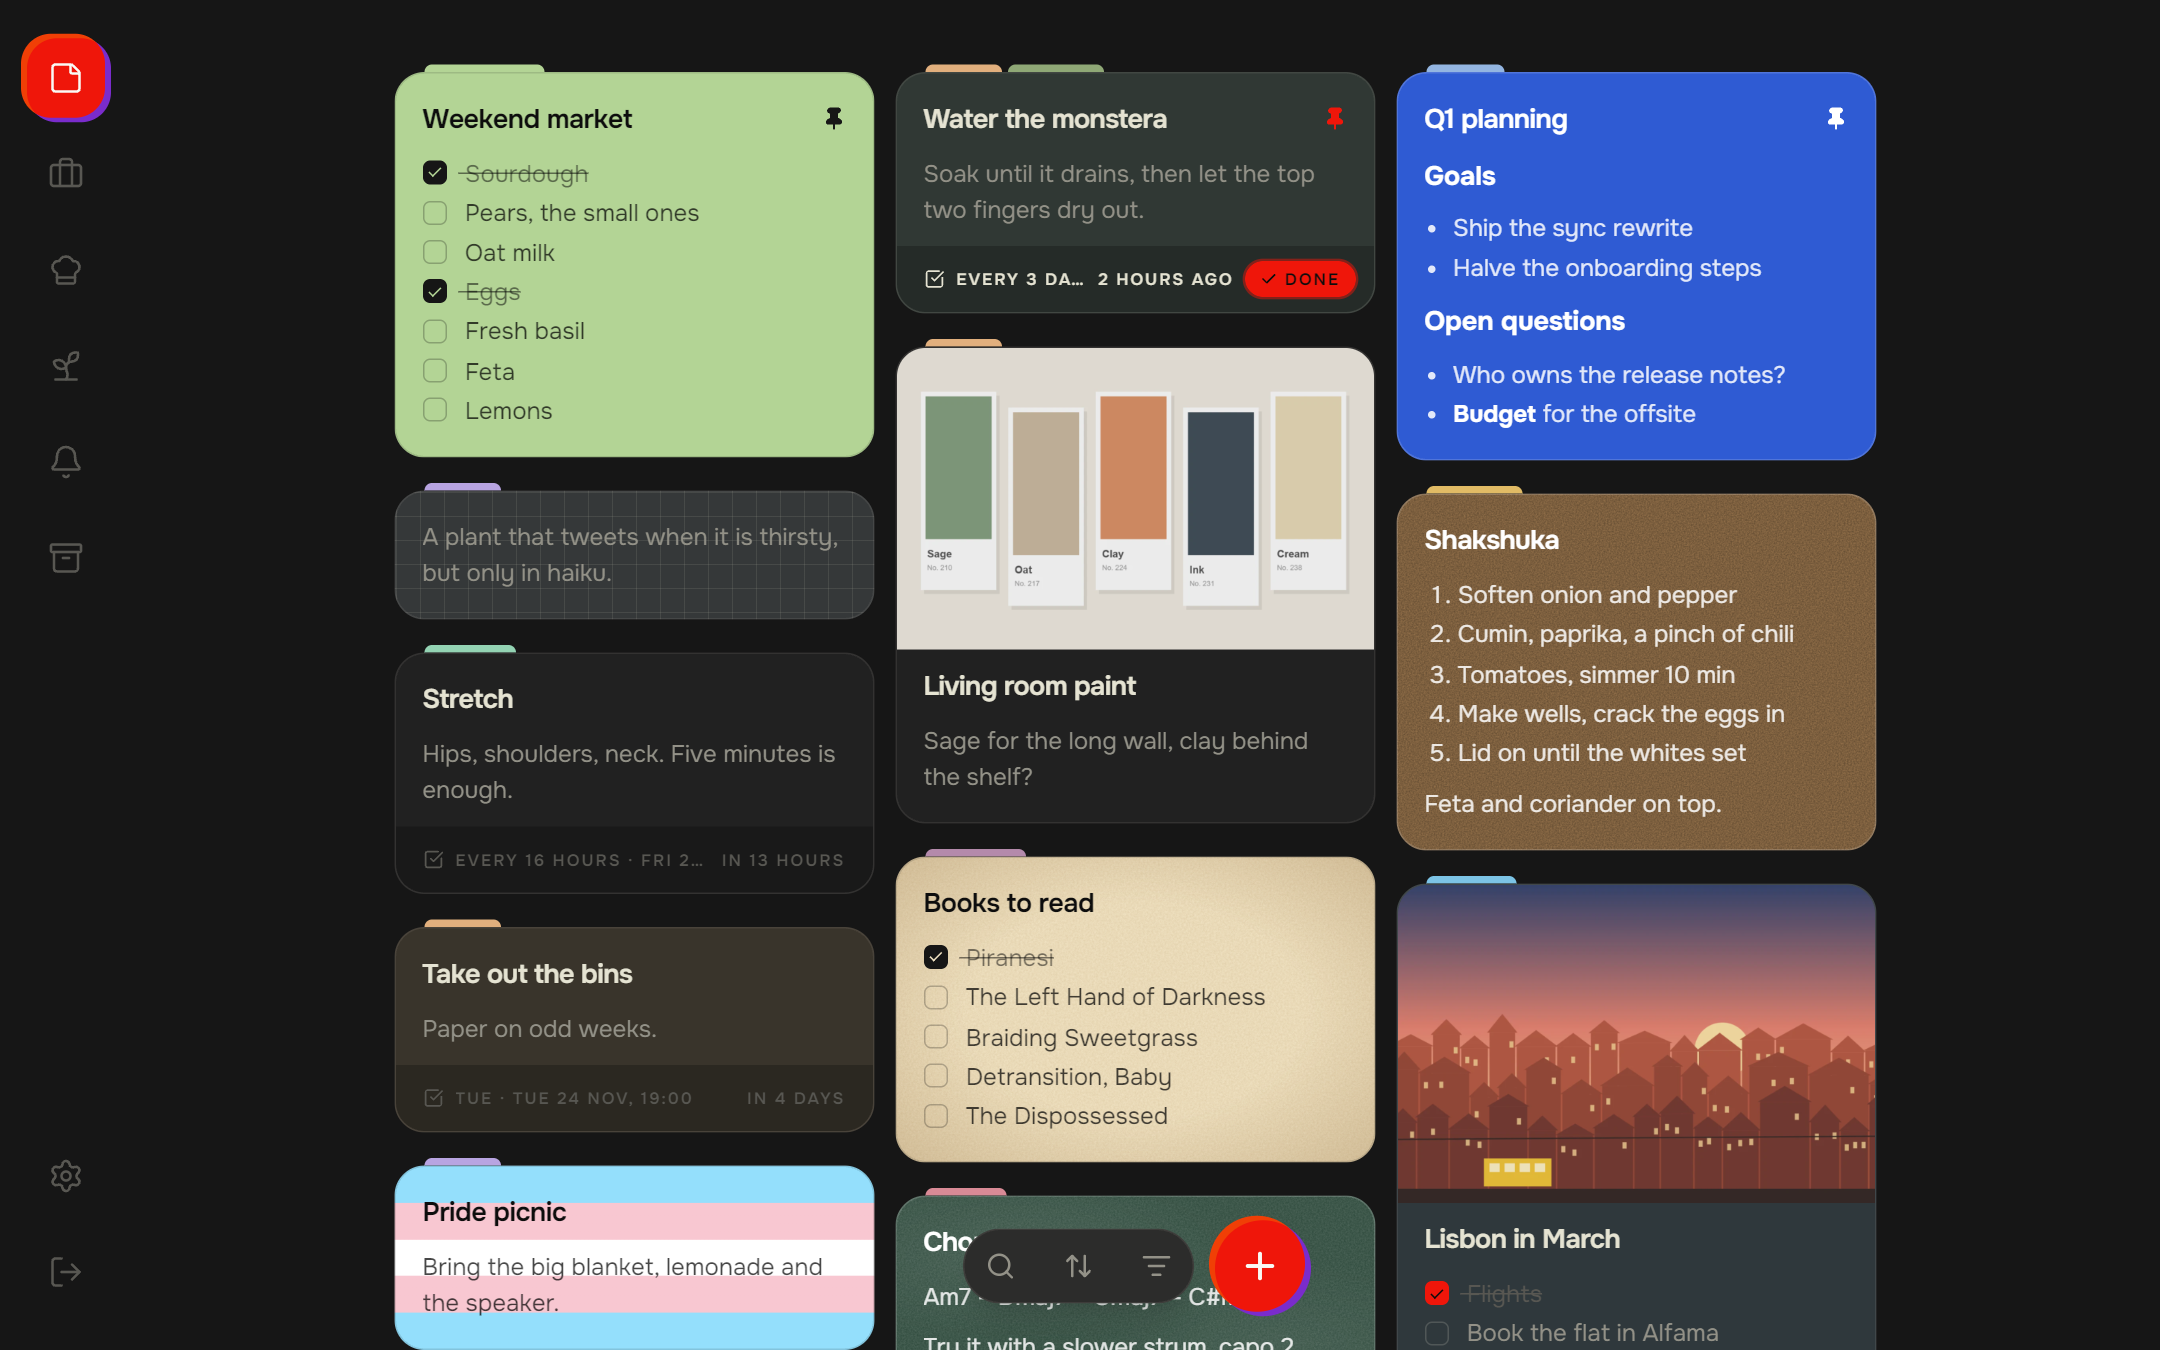
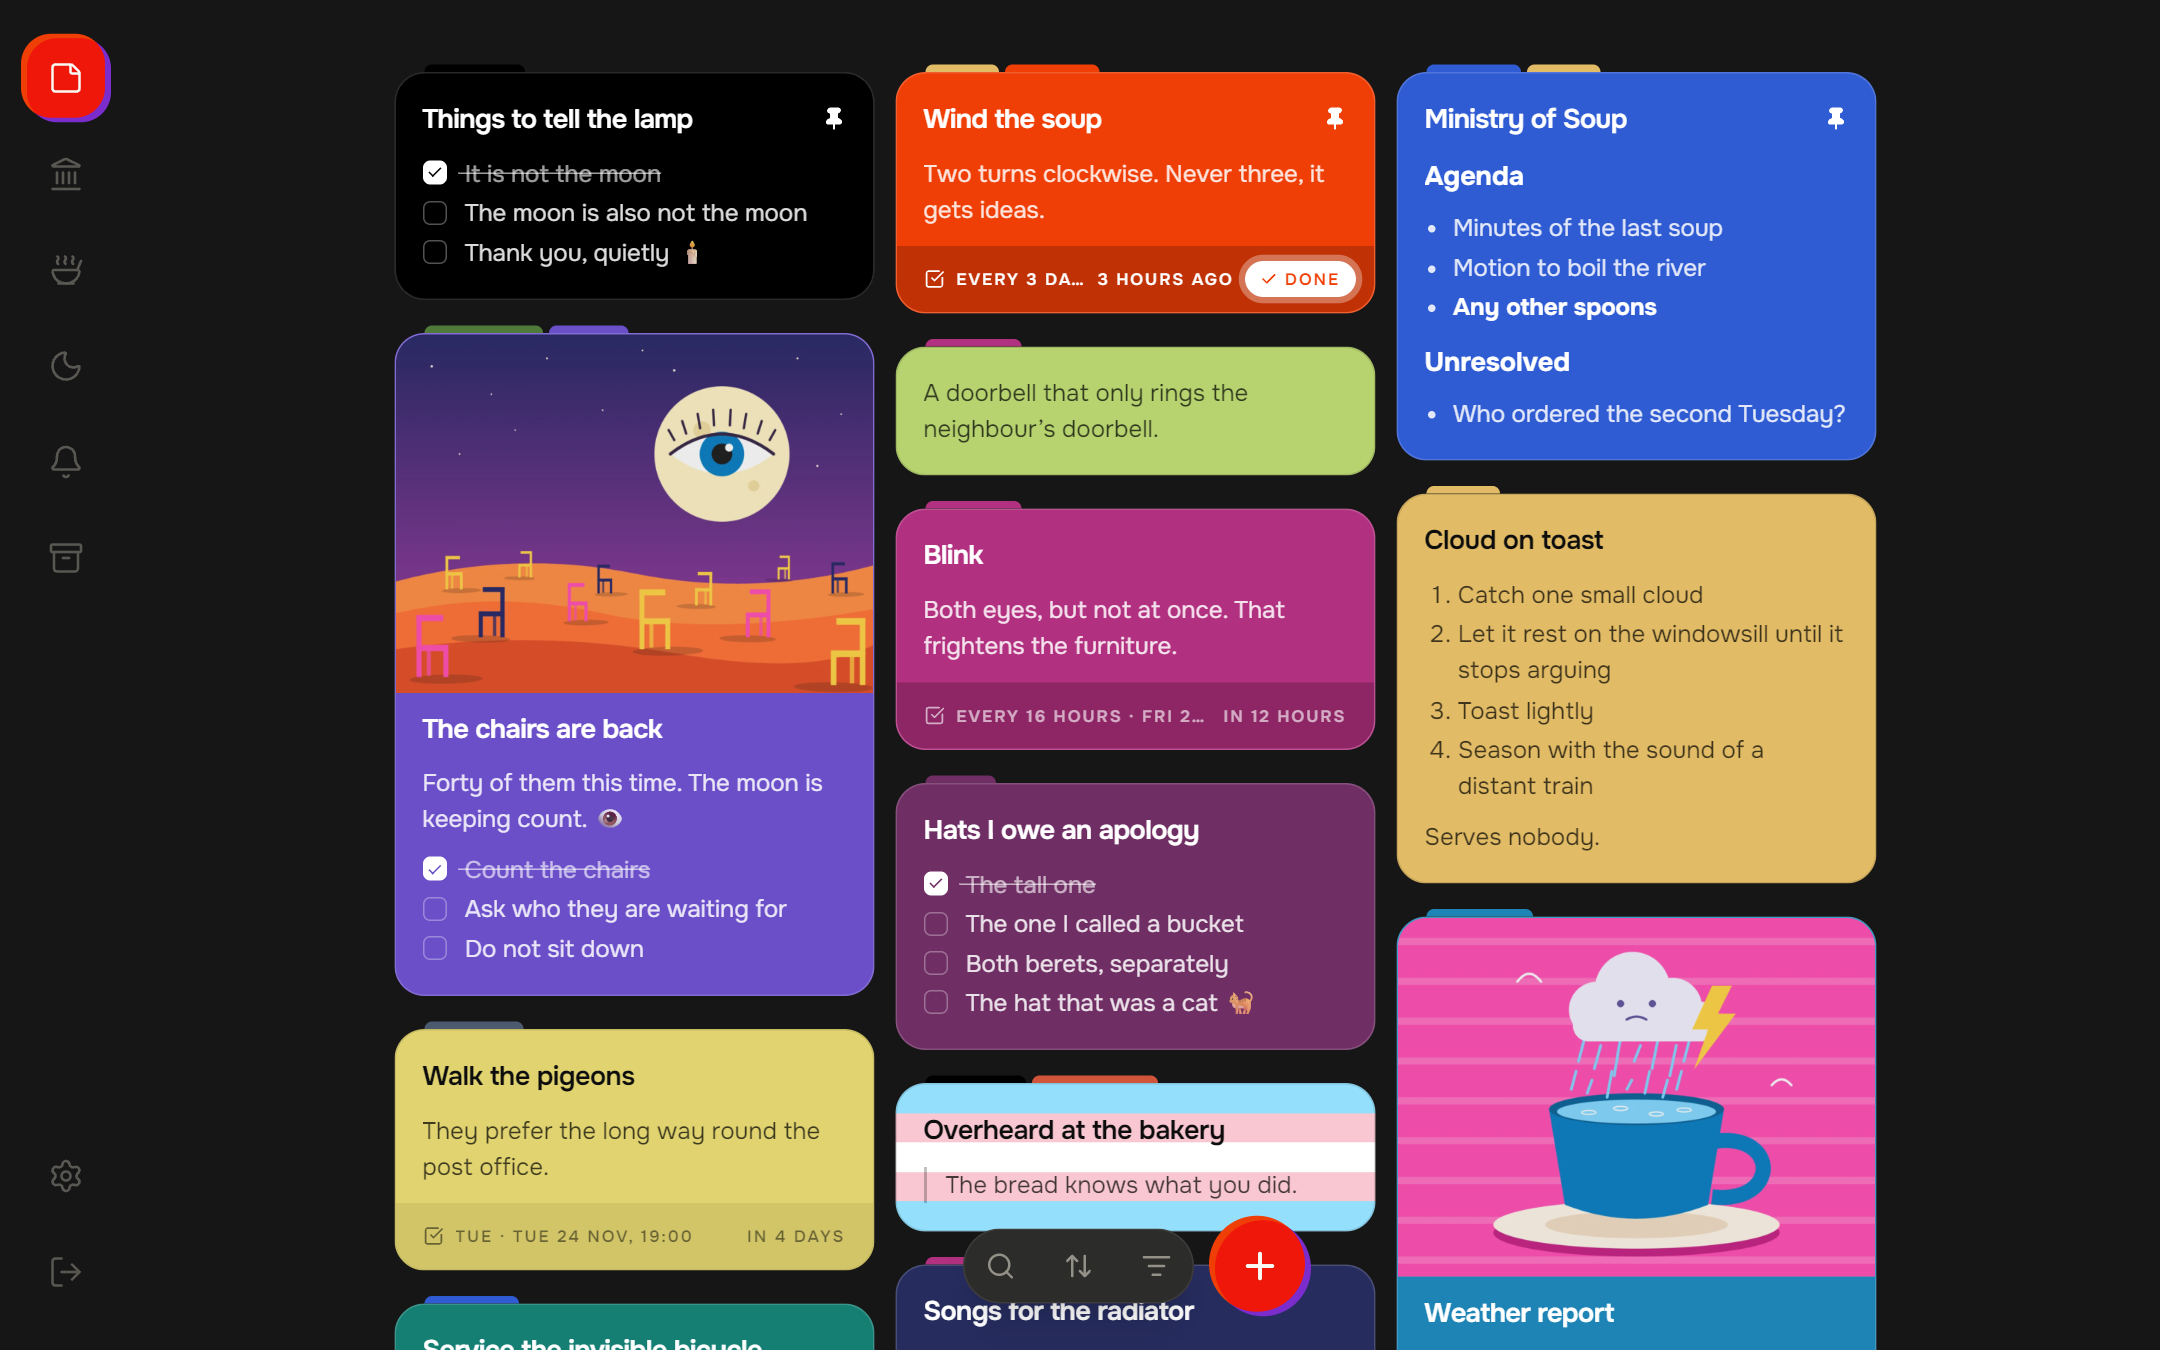
updated readme screenshots

diff --git a/README.md b/README.md
@@ -17,7 +17,7 @@
 
 <picture>
   <source media="(prefers-color-scheme: dark)" srcset="docs/assets/notes-dark.png">
-  <img src="docs/assets/notes-light.png" alt="The notes grid of a demo account: coloured cards with checklists, recipes, a photo, label tabs on their edges and reminders with Done buttons" width="80%">
+  <img src="docs/assets/notes-light.png" alt="The notes grid of a demo account: brightly coloured cards with nonsense checklists, strange illustrations, label tabs on their edges and reminders with Done buttons" width="80%">
 </picture>
 
 </div>
@@ -43,7 +43,7 @@ Notifica Ex keeps text, checklists, markdown and images on one grid and lets you
 <p align="center">
   <picture>
     <source media="(prefers-color-scheme: dark)" srcset="docs/assets/open-dark.png">
-    <img src="docs/assets/open-light.png" alt="An open note with a photo of Lisbon, a checklist and the formatting bar" width="32.5%">
+    <img src="docs/assets/open-light.png" alt="An open note with an illustration of a moon eye over a desert of chairs, a checklist and the formatting bar" width="32.5%">
   </picture>
   <picture>
     <source media="(prefers-color-scheme: dark)" srcset="docs/assets/history-dark.png">
